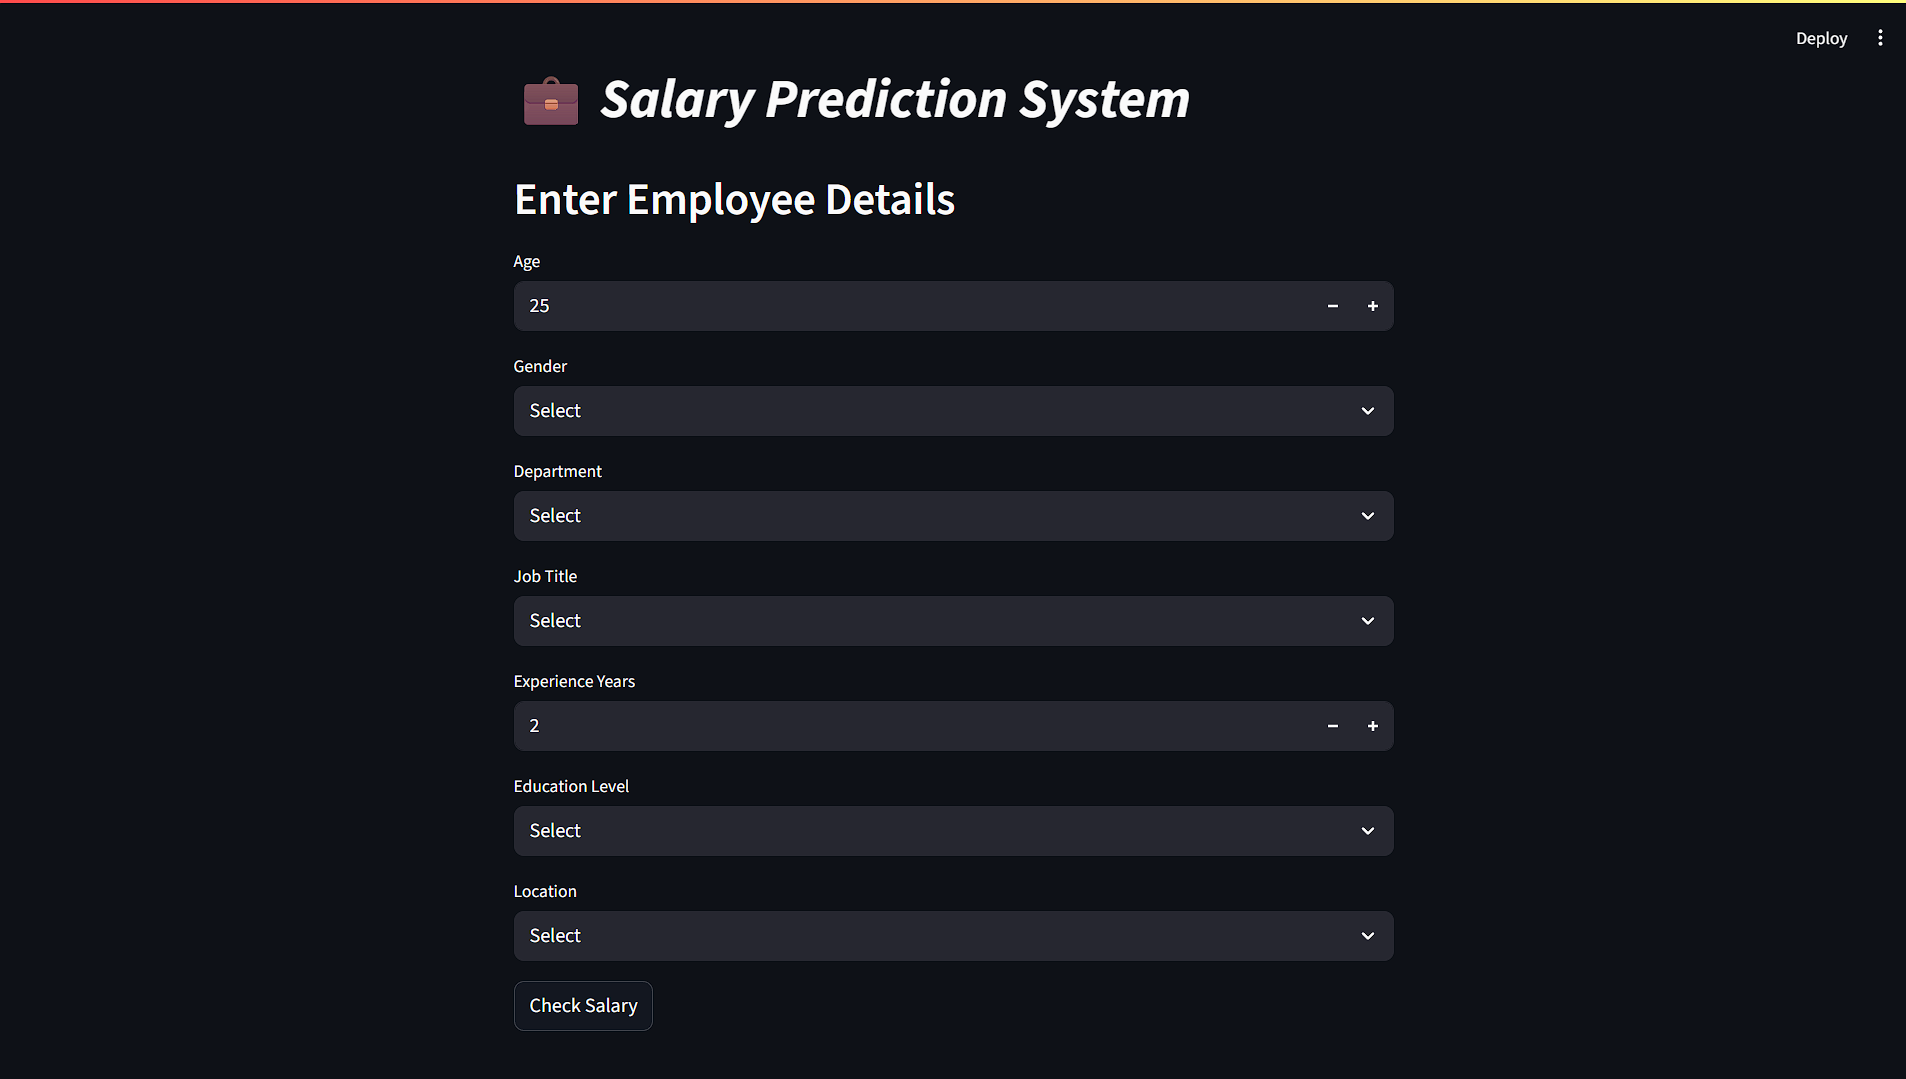
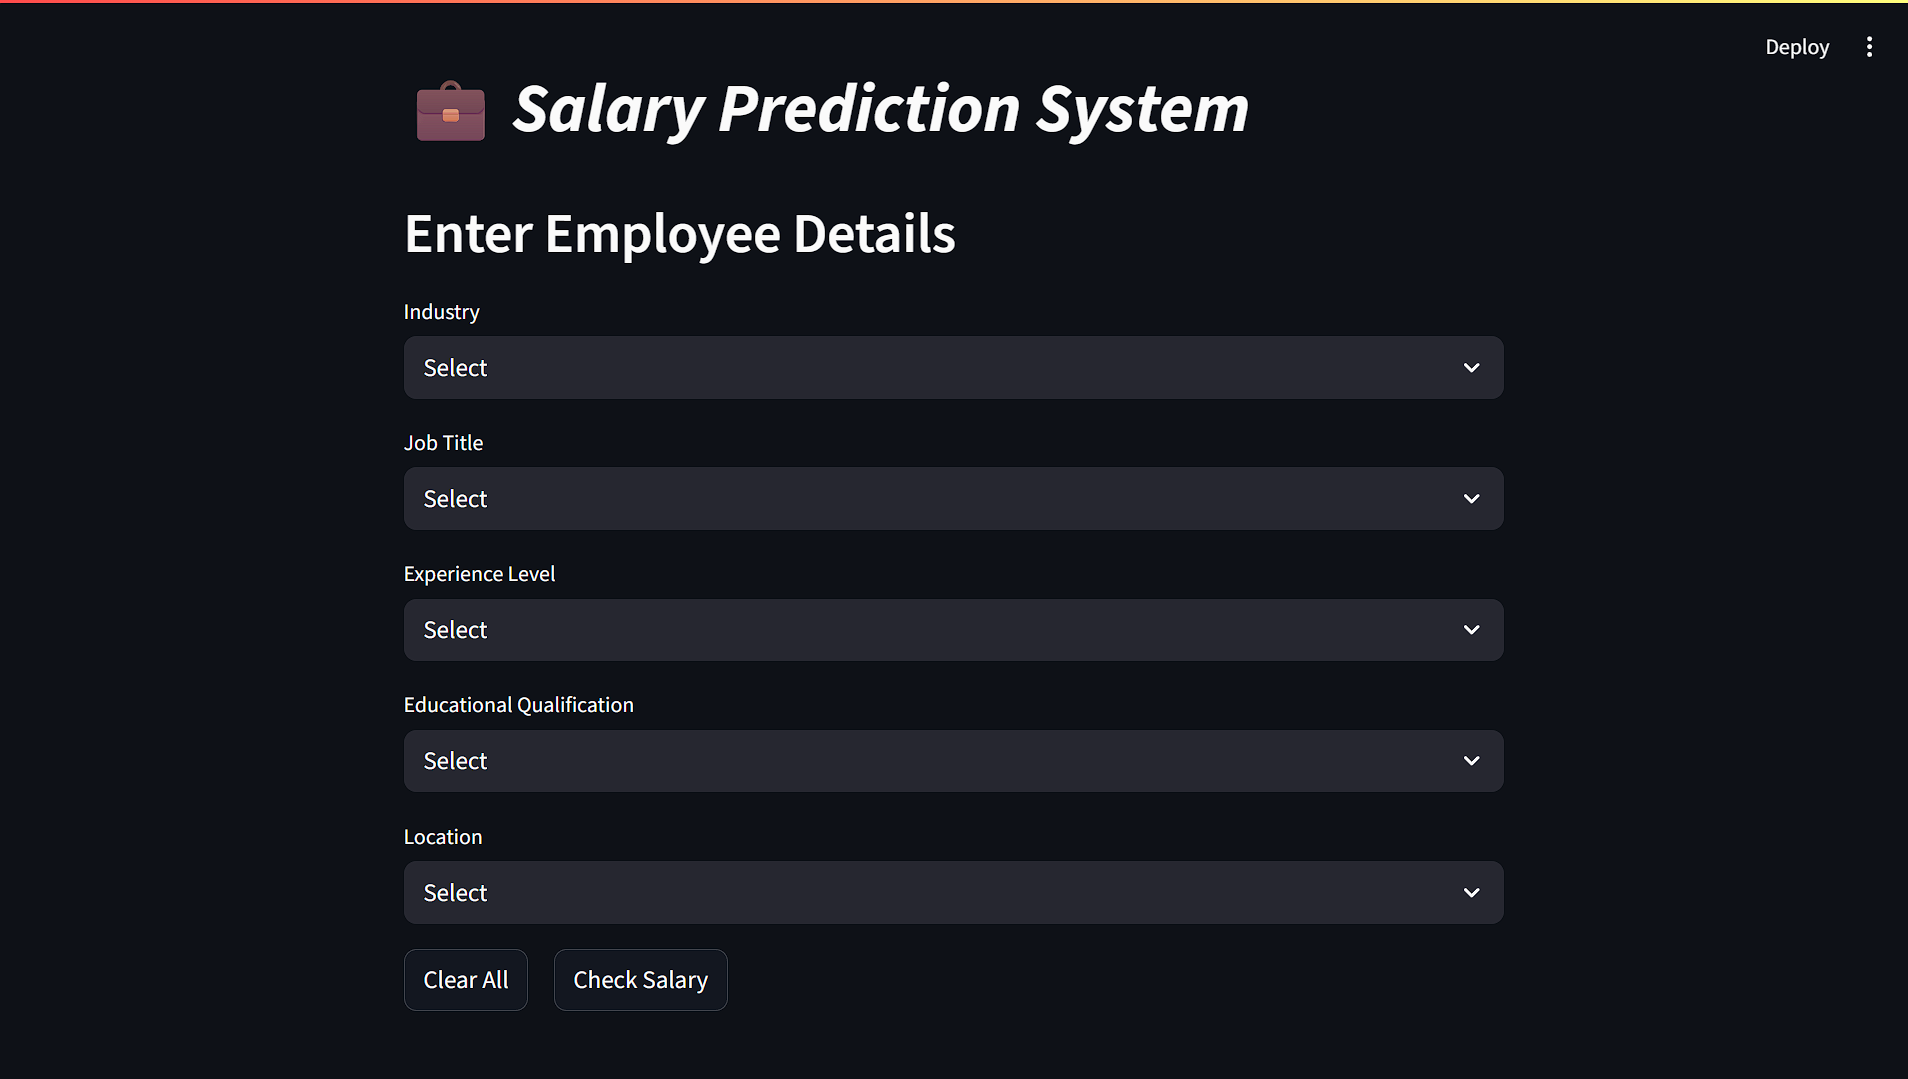
Update & Bug Fixes

Changed region(s): [[0.1857, 0.1529, 0.8048, 0.9481], [0.2167, 0.0612, 0.681, 0.1529], [0.9286, 0.0306, 0.9906, 0.0612]]

diff --git a/app.py b/app.py
@@ -3,13 +3,14 @@ import requests
 import gdown
 import streamlit as st
 import pandas as pd
+import numpy as np
 from sklearn.model_selection import train_test_split
 from sklearn.ensemble import RandomForestRegressor
 
 # ─── Parameters ───
-df_columns = ['Gender','Department','Job_Title','Education_Level','Location']
-CSV_URL   = "https://drive.google.com/uc?export=download&id=1ghlU4g5ISe1_Q5FDF7N9g_POLVszRJBg"
-CSV_FILE  = "Employers_Data.csv"
+df_columns = ['Industry', 'Job_Title', 'Experience_Level', 'Educational_Level', 'Location']
+CSV_URL   = "https://drive.google.com/uc?export=download&id=15iVSngbLNU_Z6zcGl_ZZawG_dDbd-pih"
+CSV_FILE  = "Refined Employers Data.csv"
 
 # ─── Download Helper ───
 def download_if_missing(url: str, filename: str):
@@ -29,30 +30,23 @@ def download_if_missing(url: str, filename: str):
 @st.cache_data
 def load_data():
     download_if_missing(CSV_URL, CSV_FILE)
-
     df = pd.read_csv(CSV_FILE)
-    df.drop(columns=['Name','Employee_ID'], inplace=True)
     df.dropna(inplace=True)
 
-    df.replace({'Location':{
-        'Austin':'India','Seattle':'Australia',
-        'Chicago':'America','New York':'England',
-        'San Francisco':'Dubai'
-    }}, inplace=True)
+    np.random.seed(37)
+    df['Salary'] = (df['Salary'] * np.random.uniform(0.95, 1.05, size=len(df))).round().astype(int)
 
     ip = df.drop(columns=['Salary'])
     op = df['Salary']
 
-    ip_train, ip_test, op_train, op_test = train_test_split(ip, op, test_size=0.2, random_state=42)
-
+    ip_train, ip_test, op_train, op_test = train_test_split(ip, op, test_size=0.2, random_state=37)
     ip_train_enc = pd.get_dummies(ip_train,columns=df_columns,drop_first=False)
-
     return df, ip_train_enc, op_train, ip_test, op_test, ip_train_enc.columns.to_list()
 
 # ─── Train Model (Cached) ───
 @st.cache_resource
 def train_model(ip_train_enc, op_train):
-    rf = RandomForestRegressor(n_estimators=450, random_state=42, n_jobs=-1)
+    rf = RandomForestRegressor(n_estimators=450, max_depth = None, random_state=37, n_jobs=-1)
     rf.fit(ip_train_enc, op_train)
     return rf
 
@@ -61,38 +55,109 @@ st.set_page_config(page_title="Salary Predictor", layout="centered")
 st.title("💼 *Salary Prediction System*")
 st.header("Enter Employee Details")
 
-# Global Loading
-df, X_train_enc, y_train, X_test, y_test, MODEL_COLS = load_data()
-model = train_model(X_train_enc, y_train)
-
-# User Inputs
-Age = st.number_input("Age", 18, 70, 25, key="age_select")
-Gender = st.selectbox("Gender", ["Select"] + sorted(df['Gender'].unique()), key="gender_select")
-Dept   = st.selectbox("Department", ["Select"] + sorted(df['Department'].unique()), key="department_select")
-Job    = st.selectbox("Job Title", ["Select"] + sorted(df['Job_Title'].unique()), key="job_title_select")
-Exp    = st.number_input("Experience Years", 0, 50, 2, key="experience_years_select")
-Edu    = st.selectbox("Education Level", ["Select"] + sorted(df['Education_Level'].unique()), key="education_level_select")
-Loc    = st.selectbox("Location", ["Select"] + sorted(df['Location'].unique()), key="location_select")
-
-# Model Prediction
-if st.button("Check Salary", key="check_salary"):
-    if "Select" in [Gender,Dept,Job,Edu,Loc]:
-        st.error("⚠ Please Fill All The Fields!")
+# ─── Reset Helper ───
+def clear_all():
+    keys = ["industry_select", "job_select", "exp_select", "edu_select", "location_select", "previous_industry"]
+    if all(st.session_state.get(k, "Select") == "Select" for k in keys):
+        st.session_state.show_clear_error = True
     else:
-        sample = pd.DataFrame([{
-            'Age': Age,
-            'Gender': Gender.strip().title(),
-            'Department': Dept.strip().title(),
-            'Job_Title': Job.strip().title(),
-            'Experience_Years': Exp,
-            'Education_Level': Edu.strip().title(),
-            'Location': Loc.strip().title(),
-        }])
+        for k in keys:
+            st.session_state[k] = "Select"
+        st.session_state.show_clear_error = False
 
-        # User Input Encoding
-        sample_enc = pd.get_dummies(sample, columns=df_columns, drop_first=False)
-        sample_enc = sample_enc.reindex(columns=MODEL_COLS, fill_value=0)
+if st.session_state.get("show_clear_error", False):
+    st.error("⚠ Nothing To Clear!")
+    st.session_state.show_clear_error = False
 
-        # User Salary Prediction
-        pred = model.predict(sample_enc)[0]
-        st.success(f"💰 Expected Salary: ₹{pred:,.0f}")
+# ─── Global Loading ───
+df, ip_train_enc, op_train, ip_test, op_test, MODEL_COLS = load_data()
+model = train_model(ip_train_enc, op_train)
+
+# ─── User Inputs ───
+# Step 1: Industry Selection
+Ins = st.selectbox("Industry", ["Select"] + sorted(df['Industry'].unique()), key="industry_select")
+if "previous_industry" not in st.session_state or st.session_state.previous_industry != Ins:
+    st.session_state.job_select = "Select"
+st.session_state.previous_industry = Ins
+
+# Step 2: Job Titles Based on Industry
+job_options = ["Select"]
+
+if Ins == "Finance":
+    job_options += ["HR", "Analyst", "Manager", "Executive"]
+elif Ins == "Education":
+    job_options += ["Clerk", "Teacher", "Department Head", "Institute Head"]
+elif Ins in ["Technology", "Transportation", "Manufacturing"]:
+    job_options += ["Intern", "Engineer", "HR", "Manager", "Executive"]
+elif Ins == "Healthcare":
+    job_options += ["Staff", "Doctor", "Management Head", "Executive"]
+elif Ins == "Retail":
+    job_options += ["Intern", "Analyst", "Manager", "Executive"]
+else:
+    job_options += sorted(df[df["Industry"] == Ins]["Job_Title"].unique())
+
+Job = st.selectbox("Job Title", job_options, key="job_select")
+
+# Step 3: Experience Level Based on Job
+exp_options = ["Select"]
+
+if Job == "Intern":
+    exp_options += ["Entry-Level"]
+elif Job in ["Analyst", "Staff", "Clerk"]:
+    exp_options += ["Entry-Level", "Mid-Level"]
+elif Job == "HR":
+    exp_options += ["Mid-Level"]
+elif Job in ["Engineer", "Teacher", "Doctor"]:
+    exp_options += ["Entry-Level", "Mid-Level", "Senior-Level"]
+elif Job in ["Manager", "Department Head", "Management Head"]:
+    exp_options += ["Mid-Level", "Senior-Level"]
+elif Job in ["Executive", "Institute Head"]:
+    exp_options += ["Senior-Level"]
+
+Exp = st.selectbox("Experience Level", exp_options, key="exp_select")
+
+# Step 4: Education Level Based on Experience
+edu_options = ["Select"]
+
+if Exp in ["Entry-Level", "Mid-Level"]:
+    edu_options += ["Bachelor", "Master"]
+elif Exp == "Senior-Level":
+    edu_options += ["Master", "PhD"]
+
+Edu = st.selectbox("Educational Qualification", edu_options, key="edu_select")
+
+# Step 5: Location
+loc_options = ["Select"]
+
+if Exp != "Select":
+    loc_options += ["America", "Australia", "Dubai", "England", "India"]
+
+Loc = st.selectbox("Location", loc_options, key="location_select")
+
+# ─── Buttons Section ───
+col1, col2 = st.columns([1,7])
+with col1:
+    # ─── Clear Selections ───
+    st.button("Clear All", key="clear_choices", on_click=clear_all)
+
+with col2:
+    # ─── Model Prediction ───
+    if st.button("Check Salary", key="check_salary"):
+        if "Select" in [Ins, Job, Edu, Loc]:
+            st.error("⚠ Please Fill All The Fields!")
+        else:
+            sample = pd.DataFrame([{
+                'Industry': Ins.strip().title(),
+                'Job_Title': Job.strip().title(),
+                'Experience_Level': Exp.strip().title(),
+                'Educational_Level': Edu.strip().title(),
+                'Location': Loc.strip().title(),
+            }])
+
+            # User Input Encoding
+            sample_enc = pd.get_dummies(sample, columns=df_columns, drop_first=False)
+            sample_enc = sample_enc.reindex(columns=MODEL_COLS, fill_value=0)
+
+            # User Salary Prediction
+            pred = model.predict(sample_enc)[0]
+            st.success(f"💰 Expected Salary (Per Annum): ₹{pred:,.0f}/-")

diff --git a/README.md b/README.md
@@ -41,9 +41,10 @@ This web app predicts the expected salary of an employee based on professional a
 ## 📦 Tech Stack
 
 - `streamlit` – UI & deployment
-- `pandas` – data manipulation
-- `scikit-learn` – model training and prediction
-- `gdown`, `requests` – fetch dataset from Google Drive
+- `pandas` – Data manipulation
+- `numpy` – Numerical analysis
+- `scikit-learn` – Model training and prediction
+- `gdown`, `requests` – Fetch dataset from Google Drive
 
 ---
 
